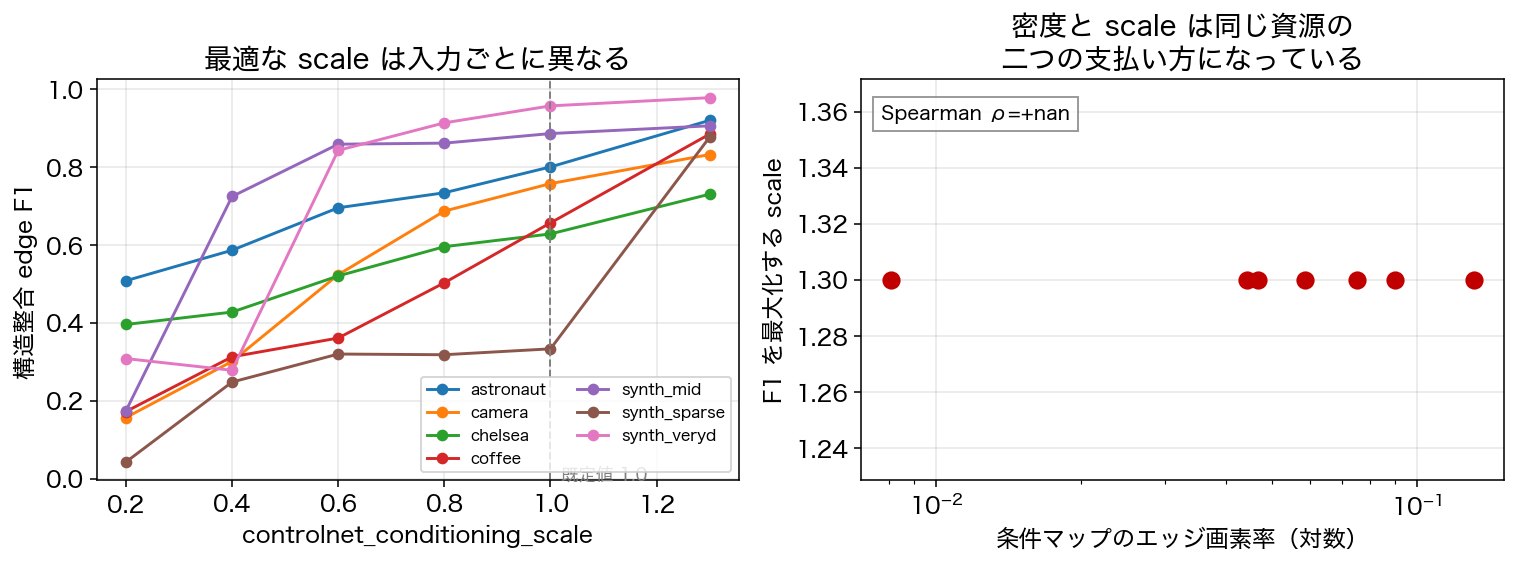
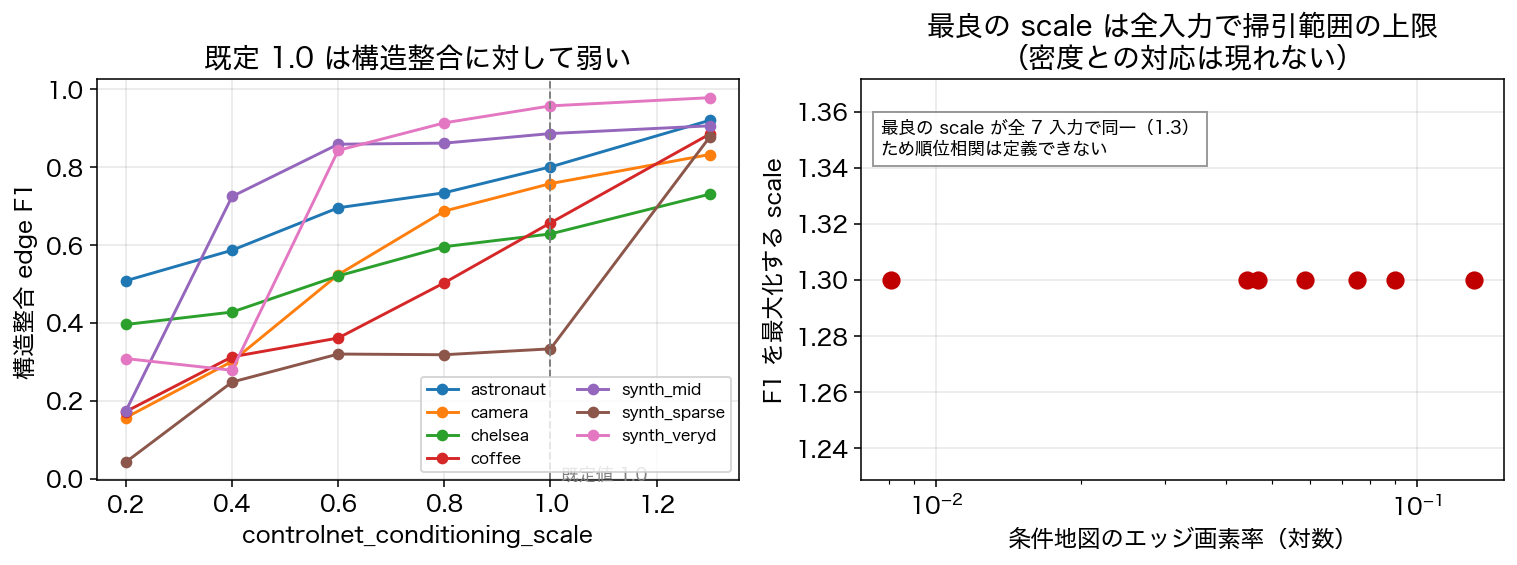
一度も走らせていなかった検査を通し、参考図の nan 表示を直す
■ check_health.py（全生成画像の健全性）
README が「全生成画像」と説明していながら、*_gen / *_before / *_after の
357枚しか見ておらず、exp12 の15枚が対象外だった。529枚の内訳は
条件地図157（密度0なら全画素0が正しいので対象外）と生成372枚である。

対象を広げ、exp12 の「slicingあり（修正なし）」5枚は第4.1節が壊れることを
示すためにわざと壊れた状態で保存してあるので、期待どおり退化している側で
数えるようにした。結果は「検査372枚 / 異常0枚 / 想定どおり壊れている5枚」で、
想定外の異常は1枚も無い。

■ analysis.py の参考図
fig2 の右パネルが「Spearman ρ=+nan」と印字していた。最良の scale が
全7入力で 1.3 に揃うため相関が定義できないのが原因で、本文が第4.3節で
「最適値が全件同一なので密度との順位相関そのものが定義できない」と
述べている当のものだが、図だけ見ると壊れて見える。
定義できない場合は理由を書くようにし、パネルの題も
「密度と scale は同じ資源の二つの支払い方になっている」から
「最良の scale は全入力で掃引範囲の上限（密度との対応は現れない）」へ、
データが示すとおりに改めた。ConstantInputWarning も出なくなる。

diff --git a/check_health.py b/check_health.py
@@ -1,15 +1,27 @@
-"""生成済み画像の健全性を一括検査する。黙って壊れていないかを毎回確認する用。"""
-import glob, os, sys
+"""生成済み画像の健全性を一括検査する。黙って壊れていないかを毎回確認する用。
+
+条件地図（*_cond.png）は密度0なら全画素0が正しいので対象から外す。
+exp12 の slicingあり（修正なし）は、第4.1節が壊れることを示すために
+わざと壊れた状態で保存してあるので、退化していることを期待する側で数える。
+"""
+import glob, os, re, sys
 import cv2, numpy as np
 R = os.path.join(os.path.dirname(os.path.abspath(__file__)), "results")
-bad = []
-files = sorted(glob.glob(os.path.join(R, "images", "*_gen.png")) +
-               glob.glob(os.path.join(R, "images", "*_before.png")) +
-               glob.glob(os.path.join(R, "images", "*_after.png")))
+bad, expected_broken = [], []
+files = sorted(f for f in glob.glob(os.path.join(R, "images", "*.png"))
+               if not f.endswith("_cond.png"))
 for f in files:
     im = cv2.imread(f)
     if im is None: bad.append((f, "読込失敗")); continue
-    if im.std() < 1.0: bad.append((f, f"退化 std={im.std():.2f} mean={im.mean():.1f}"))
-print(f"検査 {len(files)}枚 / 異常 {len(bad)}枚")
+    degraded = im.std() < 1.0
+    # 「slicingあり」で「修正」を含まないものだけが、壊れていることを期待する条件
+    is_expected = ("e12_slicingあり_" in os.path.basename(f))
+    if is_expected:
+        (expected_broken if degraded else bad).append(
+            (f, "壊れているはずが正常" if not degraded else "想定どおり退化"))
+    elif degraded:
+        bad.append((f, f"退化 std={im.std():.2f} mean={im.mean():.1f}"))
+print(f"検査 {len(files)}枚 / 異常 {len(bad)}枚"
+      f" / 想定どおり壊れている {len(expected_broken)}枚（第4.1節の証拠）")
 for f, why in bad[:15]: print(f"  ★{os.path.basename(f)}: {why}")
 sys.exit(1 if bad else 0)

diff --git a/analysis.py b/analysis.py
@@ -94,13 +94,17 @@ def fig2_scale():
     ax[1].set_xscale("log")
     ax[1].set_xlabel("条件地図のエッジ画素率（対数）")
     ax[1].set_ylabel("F1 を最大化する scale")
-    ax[1].set_title("密度と scale は同じ資源の\n二つの支払い方になっている")
+    ax[1].set_title("最良の scale は全入力で掃引範囲の上限\n（密度との対応は現れない）")
     if len(b) > 2:
-        r = stats.spearmanr(b["density"], b["best_scale"])
-        ax[1].text(0.03, 0.9, f"Spearman ρ={r.correlation:+.3f}",
-                   transform=ax[1].transAxes, fontsize=10,
-                   bbox=dict(fc="white", alpha=.8, ec=GRAY))
-        print(f"  fig2: 密度 vs 最適scale ρ={r.correlation:+.3f} p={r.pvalue:.3g}")
+        if b["best_scale"].nunique() < 2:
+            note = f"最良の scale が全 {len(b)} 入力で同一（{b['best_scale'].iloc[0]:g}）\nため順位相関は定義できない"
+            print(f"  fig2: 最良 scale が全件 {b['best_scale'].iloc[0]:g} で順位相関は定義できない")
+        else:
+            r = stats.spearmanr(b["density"], b["best_scale"])
+            note = f"Spearman ρ={r.correlation:+.3f}"
+            print(f"  fig2: 密度 vs 最適scale ρ={r.correlation:+.3f} p={r.pvalue:.3g}")
+        ax[1].text(0.03, 0.9, note, transform=ax[1].transAxes, fontsize=9,
+                   va="top", bbox=dict(fc="white", alpha=.8, ec=GRAY))
     fig.tight_layout()
     fig.savefig(os.path.join(FIG, "fig2_scale.png"), bbox_inches="tight")
     b.to_csv(os.path.join(OUT, "exp2_best_scale.csv"), index=False)
